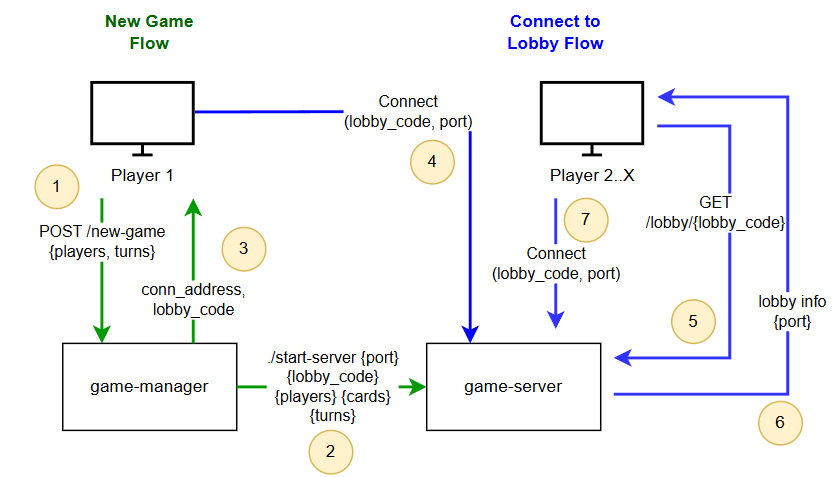
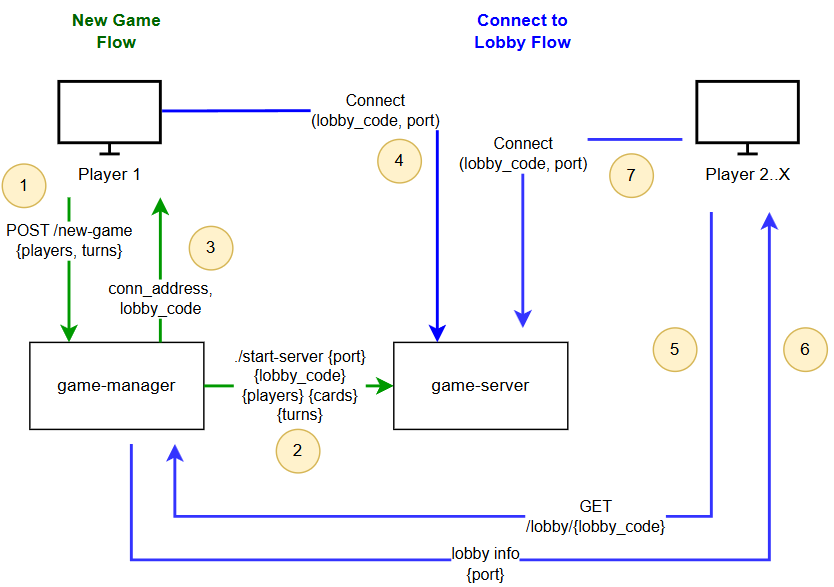
Update the docs

Changed region(s): [[0.0, 0.0294, 1.0, 0.9979], [0.5625, 0.0294, 0.7188, 0.1174], [0.5625, 0.7925, 0.6875, 0.8218]]

diff --git a/server-backend.js b/server-backend.js
@@ -39,7 +39,7 @@ app.post('/lobby', (req, res) => {
 
     const { players, turns, cards } = req.body;
 
-    if (players < 2 || players > 4) {
+    if (players < 2 || players > 6) {
         res.status(400)
             .send('Invalid players count! Min:2, Max:4', );
         return;
@@ -50,6 +50,8 @@ app.post('/lobby', (req, res) => {
             .send('Invalid turns count! Min:1, Max:10', );
         return;
     }
+
+    // TODO: validate cards count
 
     const lobbyToken = randomUUID().split('-')[4];
     const port = minServerPort + Math.floor(Math.random() * (maxServerPort - minServerPort));

diff --git a/public/game.html b/public/game.html
@@ -43,10 +43,10 @@
 </script>
 <script type="module">
   import { Princeps } from '/dist/princeps.js';
-  const port = +localStorage.getItem('princeps_port');
-  const address = 'princeps.vrozsa.com';
-  // const address = 'localhost';
-  // const port = 8090;
+  // const port = +localStorage.getItem('princeps_port');
+  // const address = 'princeps.vrozsa.com';
+  const address = 'localhost';
+  const port = 8090;
 
   const game = new Princeps();
   game.start(address, port);

diff --git a/docs/README.md b/docs/README.md
@@ -8,18 +8,29 @@ Game windows/scenes transitions.
 
 ![gameflow](game-flow.png "Game Flow")
 
-
 ## Connection Flow
 
 What should happen in the backend to support the game-flow.
 
 ![connectionflow](connection-flow.png "Connection Flow")
 
-TODO: describe the steps
+Basic flow:
+1. The `client` (player) requests a New Game to the `game-manager`
+2. The `game-manager` validates the input config and starts a new game server at a random port and lobby-code
+3. The `game-manager` stores the lobby information and returns the lobby-code and port to the `client`
+4. The `client` connects to the `game-server` using the provided port number and lobby-code
+5. Having shared the lobby-code with friends, other clients can use it to ask the `game-manager` for the lobby information
+6. The `game-manager` finds the lobby information via lobby code and provide it to the `new client`
+7. The `new client` connects to the `game-server` using the provided port number and lobby-code
+
+> For a high-throughput scenario, to achieve scalability and elasticity, we could use an auto-registering agent strategy. In this approach, we would have an agent process responsible for handling the game-servers and for auto-registering available game-server capacity to a central manager. This way, by using scaling groups in AWS, we could have new EC2 instances being booted on demand and the agents automatically making the central-manager aware of them.
 
 ## Infrastructure
 
-TODO
+An oversimplified representation of the infrastructure:
+
+![infra](infra.png "Infrastructure")
+
 
 ## Solution Remarks
 
@@ -31,3 +42,138 @@ game-server instance
 interrupted at any moment and may disrupt the player matches. I've set the interruption behavior to 'hibernate', which
 should restore the instance state when a new spot is assigned. With a bit of luck, the game may be restored in a few
 minutes =] (idk)
+
+
+# Infrastructure Setup
+
+
+## EC2 Instance
+
+### Server Backend
+
+```shell
+sudo yum update -y
+sudo yum install git -y
+sudo yum install -y nodejs
+
+git clone https://github.com/dendriel/princeps.git
+
+cd princeps
+npm i
+npm run build
+```
+
+### Nginx
+
+```shell
+# Configure Access
+sudo yum install nginx -y
+
+sudo mkdir /etc/nginx/sites-available
+sudo mkdir /etc/nginx/sites-enabled
+
+sudo vi /etc/nginx/sites-available/princeps-express # add server config (cfg bellow)
+sudo ln /etc/nginx/sites-available/princeps-express /etc/nginx/sites-enabled/
+sudo vi /etc/nginx/nginx.conf # make nginx aware of the config (cfg bellow)
+
+sudo nginx -t # check the config
+sudo systemctl start nginx # start the service (or reload if already active)
+
+# Configure HTTPS
+
+sudo yum install certbot python3-certbot-nginx -y
+sudo certbot --nginx -d princeps.vrozsa.com
+```
+
+#### `princeps-express` base server config for Nginx
+```
+server {
+listen 80;
+server_name princeps.vrozsa.com;
+
+    # Web Backend config
+    location /lobby {
+        proxy_pass http://localhost:8000;
+        proxy_http_version 1.1;
+        proxy_set_header Upgrade $http_upgrade;
+        proxy_set_header Connection 'upgrade';
+        proxy_set_header Host $host;
+        proxy_cache_bypass $http_upgrade;
+    }
+    
+    # Frontend config (client)
+    location / {
+        proxy_pass http://localhost:8080;
+        proxy_http_version 1.1;
+        proxy_set_header Upgrade $http_upgrade;
+        proxy_set_header Connection 'upgrade';
+        proxy_set_header Host $host;
+        proxy_cache_bypass $http_upgrade;
+    }
+}
+```
+*Certbot will update this config latter.
+
+Also, if not present, add `include /etc/nginx/sites-enabled/*;` to `/etc/nginx/nginx.conf` inside the `http` block.
+
+## Frontend and Backend as services
+
+Set the frontend and backend as services to auto-restart.
+
+> Note: the certificate private-key and chain file path will be available into `/etc/nginx/nginx.conf` after setting up
+> the certbot.
+
+Create a file at `/etc/systemd/system/princeps-backend.service` and past the config:
+```
+[Unit]
+Description=Princeps Backend
+After=network.target
+
+[Service]
+ExecStart=/usr/bin/node /home/ec2-user/princeps/server-backend.js
+WorkingDirectory=/home/ec2-user/princeps
+Restart=always
+User=root
+
+Environment=PRINCEPS_SSL_KEY={TODO: add the certificate-key path here}
+Environment=PRINCEPS_SSL_CERT={TODO: add the certificate path here}
+
+StandardOutput=append:/home/ec2-user/backend.log
+StandardError=append:/home/ec2-user/backend.log
+
+[Install]
+WantedBy=multi-user.target
+```
+
+Create a file at `/etc/systemd/system/princeps-frontend.service` and past the config:
+```
+[Unit]
+Description=Princeps Frontend
+After=network.target
+
+[Service]
+ExecStart=/usr/bin/node /home/ec2-user/princeps/client.js
+WorkingDirectory=/home/ec2-user/princeps
+Restart=always
+User=root
+
+StandardOutput=append:/home/ec2-user/frontend.log
+StandardError=append:/home/ec2-user/frontend.log
+
+[Install]
+WantedBy=multi-user.target
+```
+
+Start both services:
+
+```
+sudo systemctl start princeps-backend
+sudo systemctl start princeps-frontend
+```
+
+## Game Server
+
+The Game Servers listens to port range `50000-51000`, so the EC2 security group must also allow these ports.
+
+The Game Server also use HTTPS, but this is configured via env vars `PRINCEPS_SSL_KEY` and `PRINCEPS_SSL_KEY` in the
+princeps-backend service.

diff --git a/README.md b/README.md
@@ -3,11 +3,11 @@
 The Princeps project is an online Web Memory Game to be played up to 4 players.
 
 The game client and server are written using `Typescript` language, `Phaser` for game engine and `Rozsa MOGS` (a
-multiplayer lib over Socket.io) for Websocket communication.
+multiplayer lib over Socket.io) for Websocket communication. Also, the game is hosted on AWS.
 
 # Game screenshots
 
-![loby](docs/loby.png "Lobby")
+![loby](docs/lobby.png "Lobby")
 
 ![gameplay](docs/gameplay.png "Gameplay")
 
@@ -27,133 +27,16 @@ multiplayer lib over Socket.io) for Websocket communication.
 
 ## TODO
 
-NEXT:
+- Update docs
+  - add doc about the infrastructure
+  - explain the images
 
 - Add a message-log (or a chat) to improve the notifications experience
 - Allows to display players entering the lobby
-- Update doc images
+- Add sounds
 
+## NTH
 
-## EC2 Setup
-
-### Server Backend
-
-```shell
-sudo yum update -y
-sudo yum install git -y
-sudo yum install -y nodejs
-
-git clone https://github.com/dendriel/princeps.git
-
-cd princeps
-npm i
-npm run build
-```
-
-### Nginx
-
-```shell
-# Configure Access
-sudo yum install nginx -y
-
-sudo mkdir /etc/nginx/sites-available
-sudo mkdir /etc/nginx/sites-enabled
-
-sudo vi /etc/nginx/sites-available/princeps-express # add server config (cfg bellow)
-sudo ln /etc/nginx/sites-available/princeps-express /etc/nginx/sites-enabled/
-sudo vi /etc/nginx/nginx.conf # make nginx aware of the config (cfg bellow)
-
-sudo nginx -t # check the config
-sudo systemctl start nginx # start the service (or reload if already active)
-
-# Configure HTTPS
-
-sudo yum install certbot python3-certbot-nginx -y
-sudo certbot --nginx -d princeps.vrozsa.com
-```
-
-#### `princeps-express` base server config for Nginx
-```
-server {
-listen 80;
-server_name princeps.vrozsa.com;
-
-    # Web Backend config
-    location /lobby {
-        proxy_pass http://localhost:8000;
-        proxy_http_version 1.1;
-        proxy_set_header Upgrade $http_upgrade;
-        proxy_set_header Connection 'upgrade';
-        proxy_set_header Host $host;
-        proxy_cache_bypass $http_upgrade;
-    }
-    
-    # Frontend config (client)
-    location / {
-        proxy_pass http://localhost:8080;
-        proxy_http_version 1.1;
-        proxy_set_header Upgrade $http_upgrade;
-        proxy_set_header Connection 'upgrade';
-        proxy_set_header Host $host;
-        proxy_cache_bypass $http_upgrade;
-    }
-}
-```
-*Certbot will update this config latter.
-
-Also, if not present, add `include /etc/nginx/sites-enabled/*;` to `/etc/nginx/nginx.conf` inside the `http` block.
-
-## Frontend and Backend as services
-
-Set the frontend and backend as services to auto-restart.
-
-> Note: the certificate private-key and chain file path will be available into `/etc/nginx/nginx.conf` after setting up
-> the certbot.
-
-Create a file at `/etc/systemd/system/princeps-backend.service` and past the config:
-```
-[Unit]
-Description=Princeps Backend
-After=network.target
-
-[Service]
-ExecStart=/usr/bin/node /home/ec2-user/princeps/server-backend.js
-WorkingDirectory=/home/ec2-user/princeps
-Restart=always
-User=root
-
-Environment=PRINCEPS_SSL_KEY={TODO: add the certificate-key path here}
-Environment=PRINCEPS_SSL_CERT={TODO: add the certificate path here}
-
-StandardOutput=append:/home/ec2-user/backend.log
-StandardError=append:/home/ec2-user/backend.log
-
-[Install]
-WantedBy=multi-user.target
-```
-
-Create a file at `/etc/systemd/system/princeps-frontend.service` and past the config:
-```
-[Unit]
-Description=Princeps Frontend
-After=network.target
-
-[Service]
-ExecStart=/usr/bin/node /home/ec2-user/princeps/client.js
-WorkingDirectory=/home/ec2-user/princeps
-Restart=always
-User=root
-
-StandardOutput=append:/home/ec2-user/frontend.log
-StandardError=append:/home/ec2-user/frontend.log
-
-[Install]
-WantedBy=multi-user.target
-```
-
-Start both services:
-
-```
-sudo systemctl start princeps-backend
-sudo systemctl start princeps-frontend
-```
+- Add an browser icon
+- Scale the game automatically accordingly with the screen size
+- Configure a logging agent to push logs to Cloud
